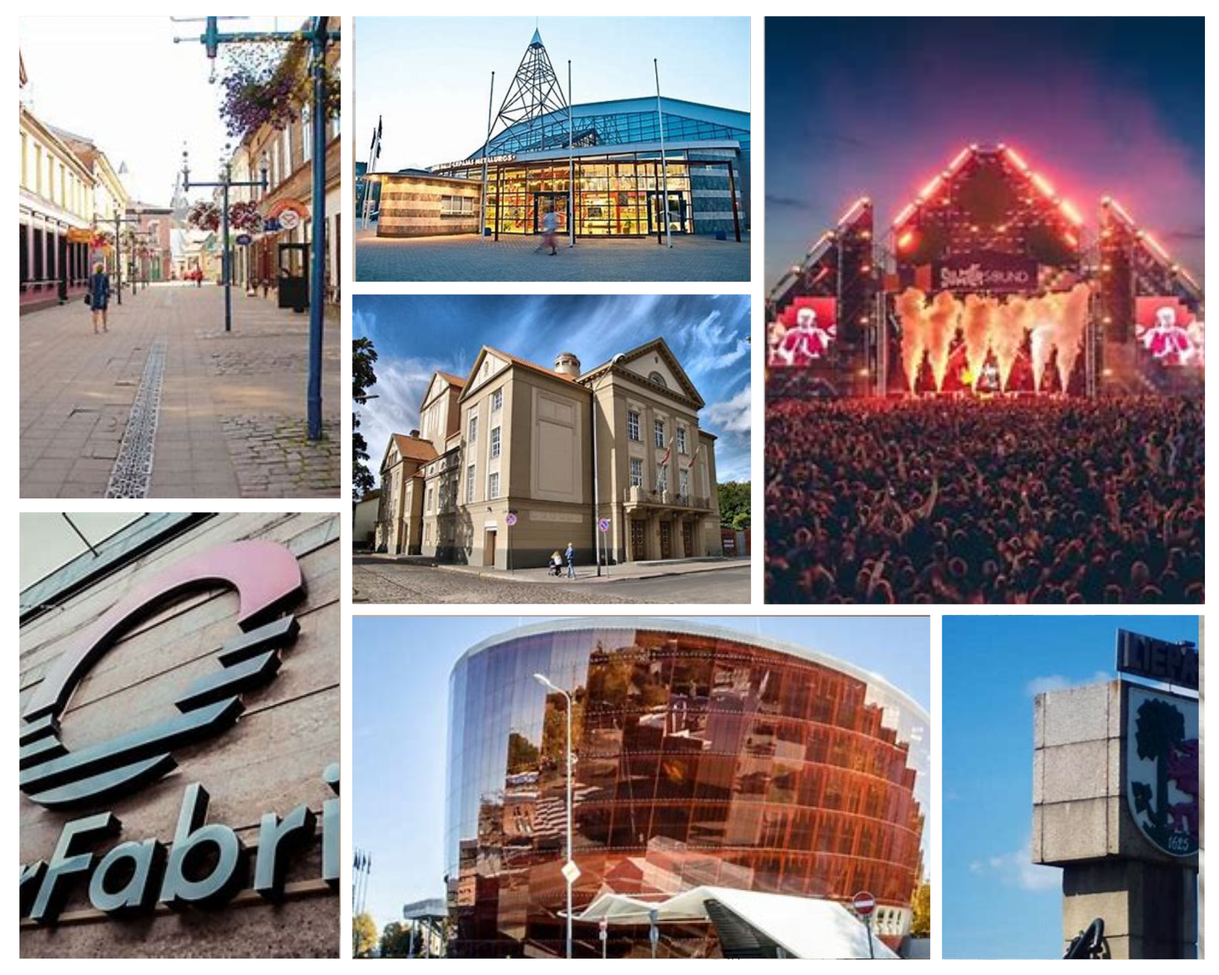
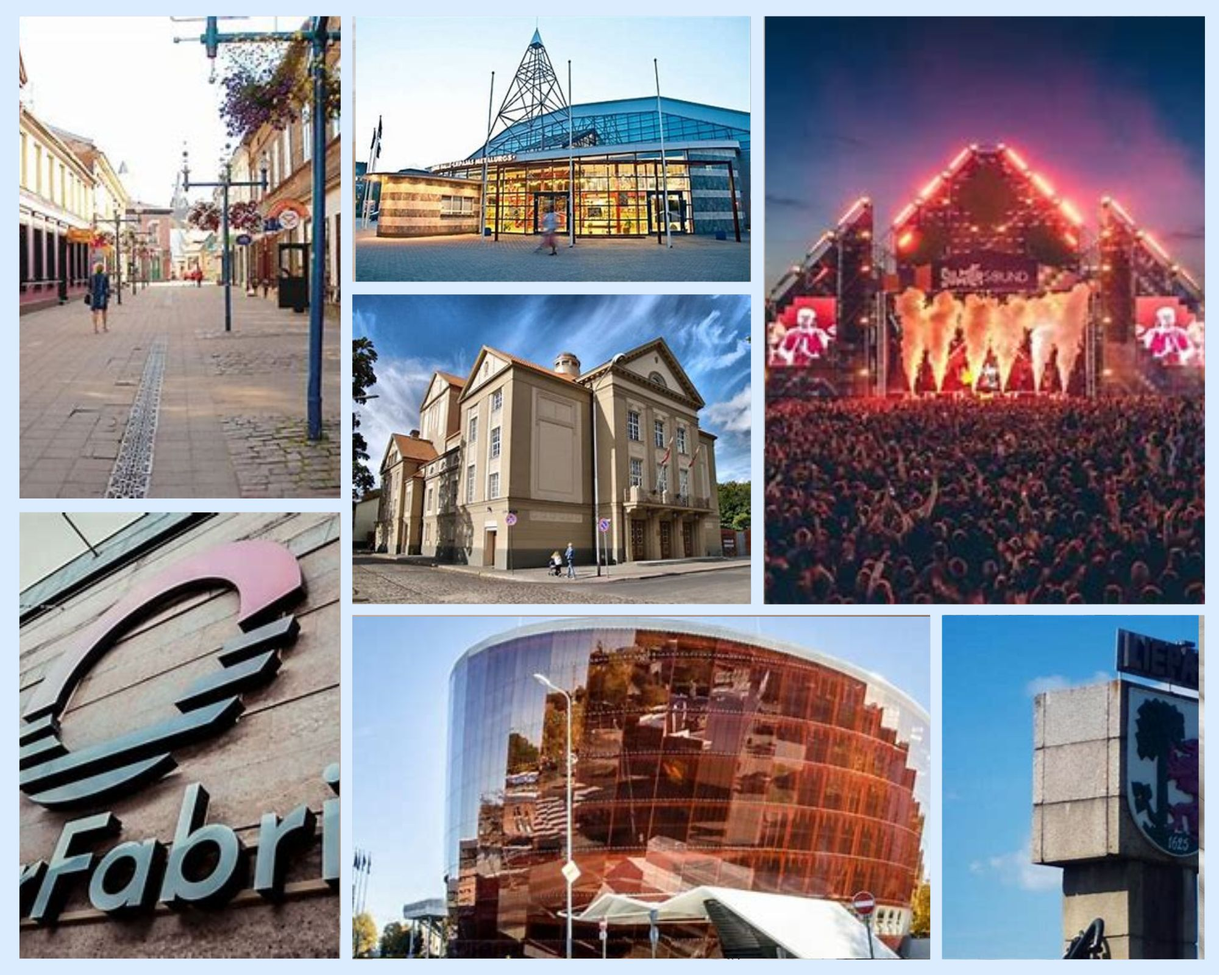
Fixed reklama img

Changed region(s): [[0.0, 0.0, 1.0, 1.0]]

diff --git a/src/Main.js b/src/Main.js
@@ -9,8 +9,8 @@ export default function Main() {
   return (
     <>
       <div className="App">
-        <div >
-          <img src="img/reklama.jpg" alt="Reklama" classname="reklama"/>
+        <div className="reklama">
+          <img src="img/reklama.jpg" alt="Reklama"  height="250"/>
         </div>
         <div>
           {BoxMain(0)}

diff --git a/src/styles.css b/src/styles.css
@@ -4,7 +4,8 @@
 }
 
 .reklama {
-  height: 50%;
+  background-color: #dbecff;
+  margin:0;
 }
 
 .box {
